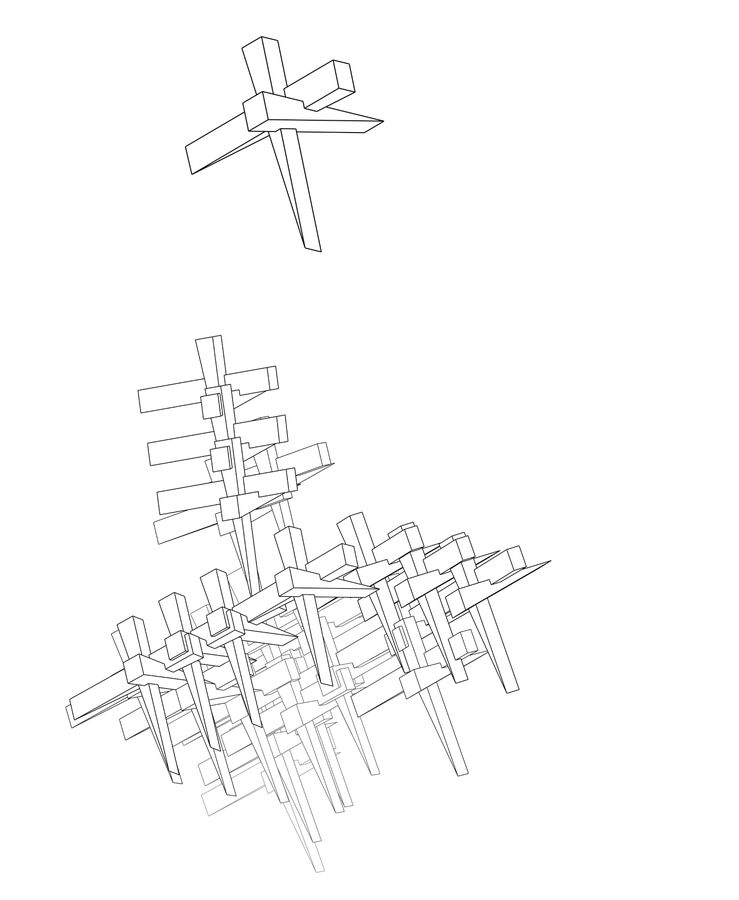
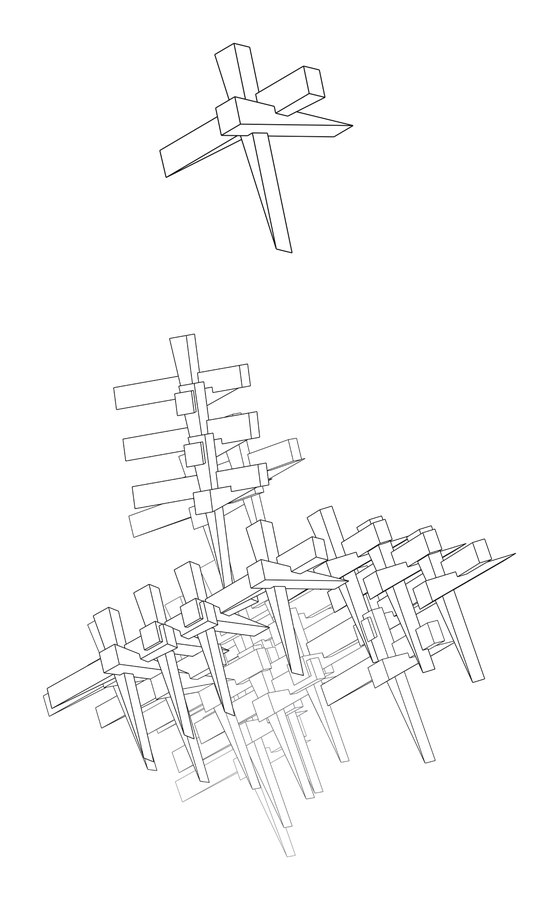
Center Totem diagram and lay out Totem rows at equal widths
Claude-Session: https://claude.ai/code/session_014P4HtxNjHqz1LRypPXgB5u

Changed region(s): [[0.0608, 0.3733, 0.8819, 0.9644], [0.2433, 0.0311, 0.6386, 0.28], [0.1825, 0.4356, 0.2129, 0.4667]]

diff --git a/index.html b/index.html
@@ -181,6 +181,7 @@ footer .wrap { display: flex; flex-wrap: wrap; justify-content: space-between; g
 .b-medium { grid-column: 3 / span 8; }
 .b-pair, .b-trio, .b-quad { grid-column: 1 / -1; display: grid; gap: clamp(12px, 2vw, 28px); align-items: start; }
 .b-pair { grid-template-columns: repeat(2, minmax(0, 1fr)); }
+.b-pair.b-center { grid-column: 3 / span 8; }
 .b-trio { grid-template-columns: repeat(3, minmax(0, 1fr)); }
 .b-quad { grid-template-columns: repeat(4, minmax(0, 1fr)); }
 .b-eq { grid-column: 1 / -1; display: flex; gap: clamp(12px, 2vw, 28px); align-items: flex-start; }
@@ -211,6 +212,7 @@ footer .wrap { display: flex; flex-wrap: wrap; justify-content: space-between; g
 }
 
 @media (max-width: 860px) {
+  .b-pair.b-center { grid-column: 1 / -1; }
   .hero-text, .hero-figure, .bio, .cv, .p-title, .titleblock, .b-text, .b-medium { grid-column: 1 / -1; }
   .hero-figure { order: -1; }
   .projects { display: flex; flex-direction: column; gap: 48px; }
@@ -284,8 +286,8 @@ const PROJECTS = [
     blocks: [
       { split: [["totem-hero", "Final model"], ["This project explores the aggregation of a single base unit, composed of three intersecting triangular prisms, through a dual system of joinery.",
         "The form charts a vertical transition in structural logic, shifting from a heavy, orthogonally interlocked base to a delicate, surface-resting condition at the apex. This gradual release of joint rigidity results in a progressively lighter, expanding spatial canopy."]] },
-      { row: [["totem-unit", "Base unit and aggregation"], ["totem-plan-section", "Top: plan, cut at 1'-0\". Bottom: section."]] },
-      { row: [["totem-detail", "Detail of the upper canopy"], ["totem-color", "Study photograph"]] }
+      { cpair: [["totem-unit", "Base unit and aggregation"], ["totem-plan-section", "Top: plan, cut at 1'-0\". Bottom: section."]] },
+      { cpair: [["totem-detail", "Detail of the upper canopy"], ["totem-color", "Study photograph"]] }
     ]
   },
   {
@@ -363,7 +365,7 @@ const OTHER = [
 
 /* ---------- Rendering ---------- */
 /* Width / height of each image, used to give photos in the same row the same height. */
-const DIMS = {"cover-totem-bw": 0.713, "ext-composite-map": 1.016, "ext-hero": 1.001, "ext-line-1": 1.0, "ext-line-10": 1.0, "ext-line-1000": 1.0, "ext-materials": 1.009, "ext-night": 1.007, "ext-radial": 1.001, "ga-drawing-series": 1.0, "ga-final-1": 1.0, "ga-final-2": 1.0, "ga-hero": 1.5, "ga-model-series": 1.0, "ga-section-1": 1.0, "ga-section-2": 1.0, "int-axon": 0.6, "int-hero": 0.716, "int-light-plan": 0.433, "int-model-1": 1.508, "int-model-2": 1.022, "int-sections": 0.517, "menil-axon": 1.508, "menil-circulation": 0.8, "menil-hero": 1.011, "menil-hilltop-plan": 0.982, "menil-model-1": 1.007, "menil-model-2": 1.023, "menil-model-3": 1.015, "menil-model-4": 1.018, "menil-plan": 1.087, "menil-section-a": 1.461, "menil-section-b": 1.541, "menil-site-plan": 1.0, "menil-transformations": 0.48, "mfah-aerial": 1.0, "mfah-axon": 1.0, "mfah-cantilever": 1.006, "mfah-hero": 1.576, "mfah-plan-12": 0.75, "mfah-section": 2.128, "mfah-site-plan": 0.742, "totem-color": 0.546, "totem-detail": 0.71, "totem-hero": 0.714, "totem-plan-section": 0.77, "totem-unit": 0.821};
+const DIMS = {"cover-totem-bw": 0.713, "ext-composite-map": 1.016, "ext-hero": 1.001, "ext-line-1": 1.0, "ext-line-10": 1.0, "ext-line-1000": 1.0, "ext-materials": 1.009, "ext-night": 1.007, "ext-radial": 1.001, "ga-drawing-series": 1.0, "ga-final-1": 1.0, "ga-final-2": 1.0, "ga-hero": 1.5, "ga-model-series": 1.0, "ga-section-1": 1.0, "ga-section-2": 1.0, "int-axon": 0.6, "int-hero": 0.716, "int-light-plan": 0.433, "int-model-1": 1.508, "int-model-2": 1.022, "int-sections": 0.517, "menil-axon": 1.508, "menil-circulation": 0.8, "menil-hero": 1.011, "menil-hilltop-plan": 0.982, "menil-model-1": 1.007, "menil-model-2": 1.023, "menil-model-3": 1.015, "menil-model-4": 1.018, "menil-plan": 1.087, "menil-section-a": 1.461, "menil-section-b": 1.541, "menil-site-plan": 1.0, "menil-transformations": 0.48, "mfah-aerial": 1.0, "mfah-axon": 1.0, "mfah-cantilever": 1.006, "mfah-hero": 1.576, "mfah-plan-12": 0.75, "mfah-section": 2.128, "mfah-site-plan": 0.742, "totem-color": 0.546, "totem-detail": 0.71, "totem-hero": 0.714, "totem-plan-section": 0.77, "totem-unit": 0.621};
 const app = document.getElementById("app");
 const esc = s => String(s).replace(/[&<>"]/g, c => ({ "&": "&amp;", "<": "&lt;", ">": "&gt;", '"': "&quot;" }[c]));
 const pad = n => String(n).padStart(2, "0");
@@ -492,6 +494,7 @@ function projectView(p) {
     if (b.full) return `<div class="b-full">${fig(b.full, "100vw", n === 0)}</div>`;
     if (b.medium) return `<div class="b-medium">${fig(b.medium, "(max-width: 860px) 100vw, 66vw")}</div>`;
     if (b.pair) return `<div class="b-pair">${b.pair.map(f => fig(f, "(max-width: 520px) 100vw, 50vw")).join("")}</div>`;
+    if (b.cpair) return `<div class="b-pair b-center">${b.cpair.map(f => fig(f, "(max-width: 520px) 100vw, 34vw")).join("")}</div>`;
     if (b.trio) return `<div class="b-trio">${b.trio.map(f => fig(f, "(max-width: 520px) 100vw, 33vw")).join("")}</div>`;
     if (b.quad) return `<div class="b-quad">${b.quad.map(f => fig(f, "(max-width: 860px) 50vw, 25vw")).join("")}</div>`;
     if (b.row) {
